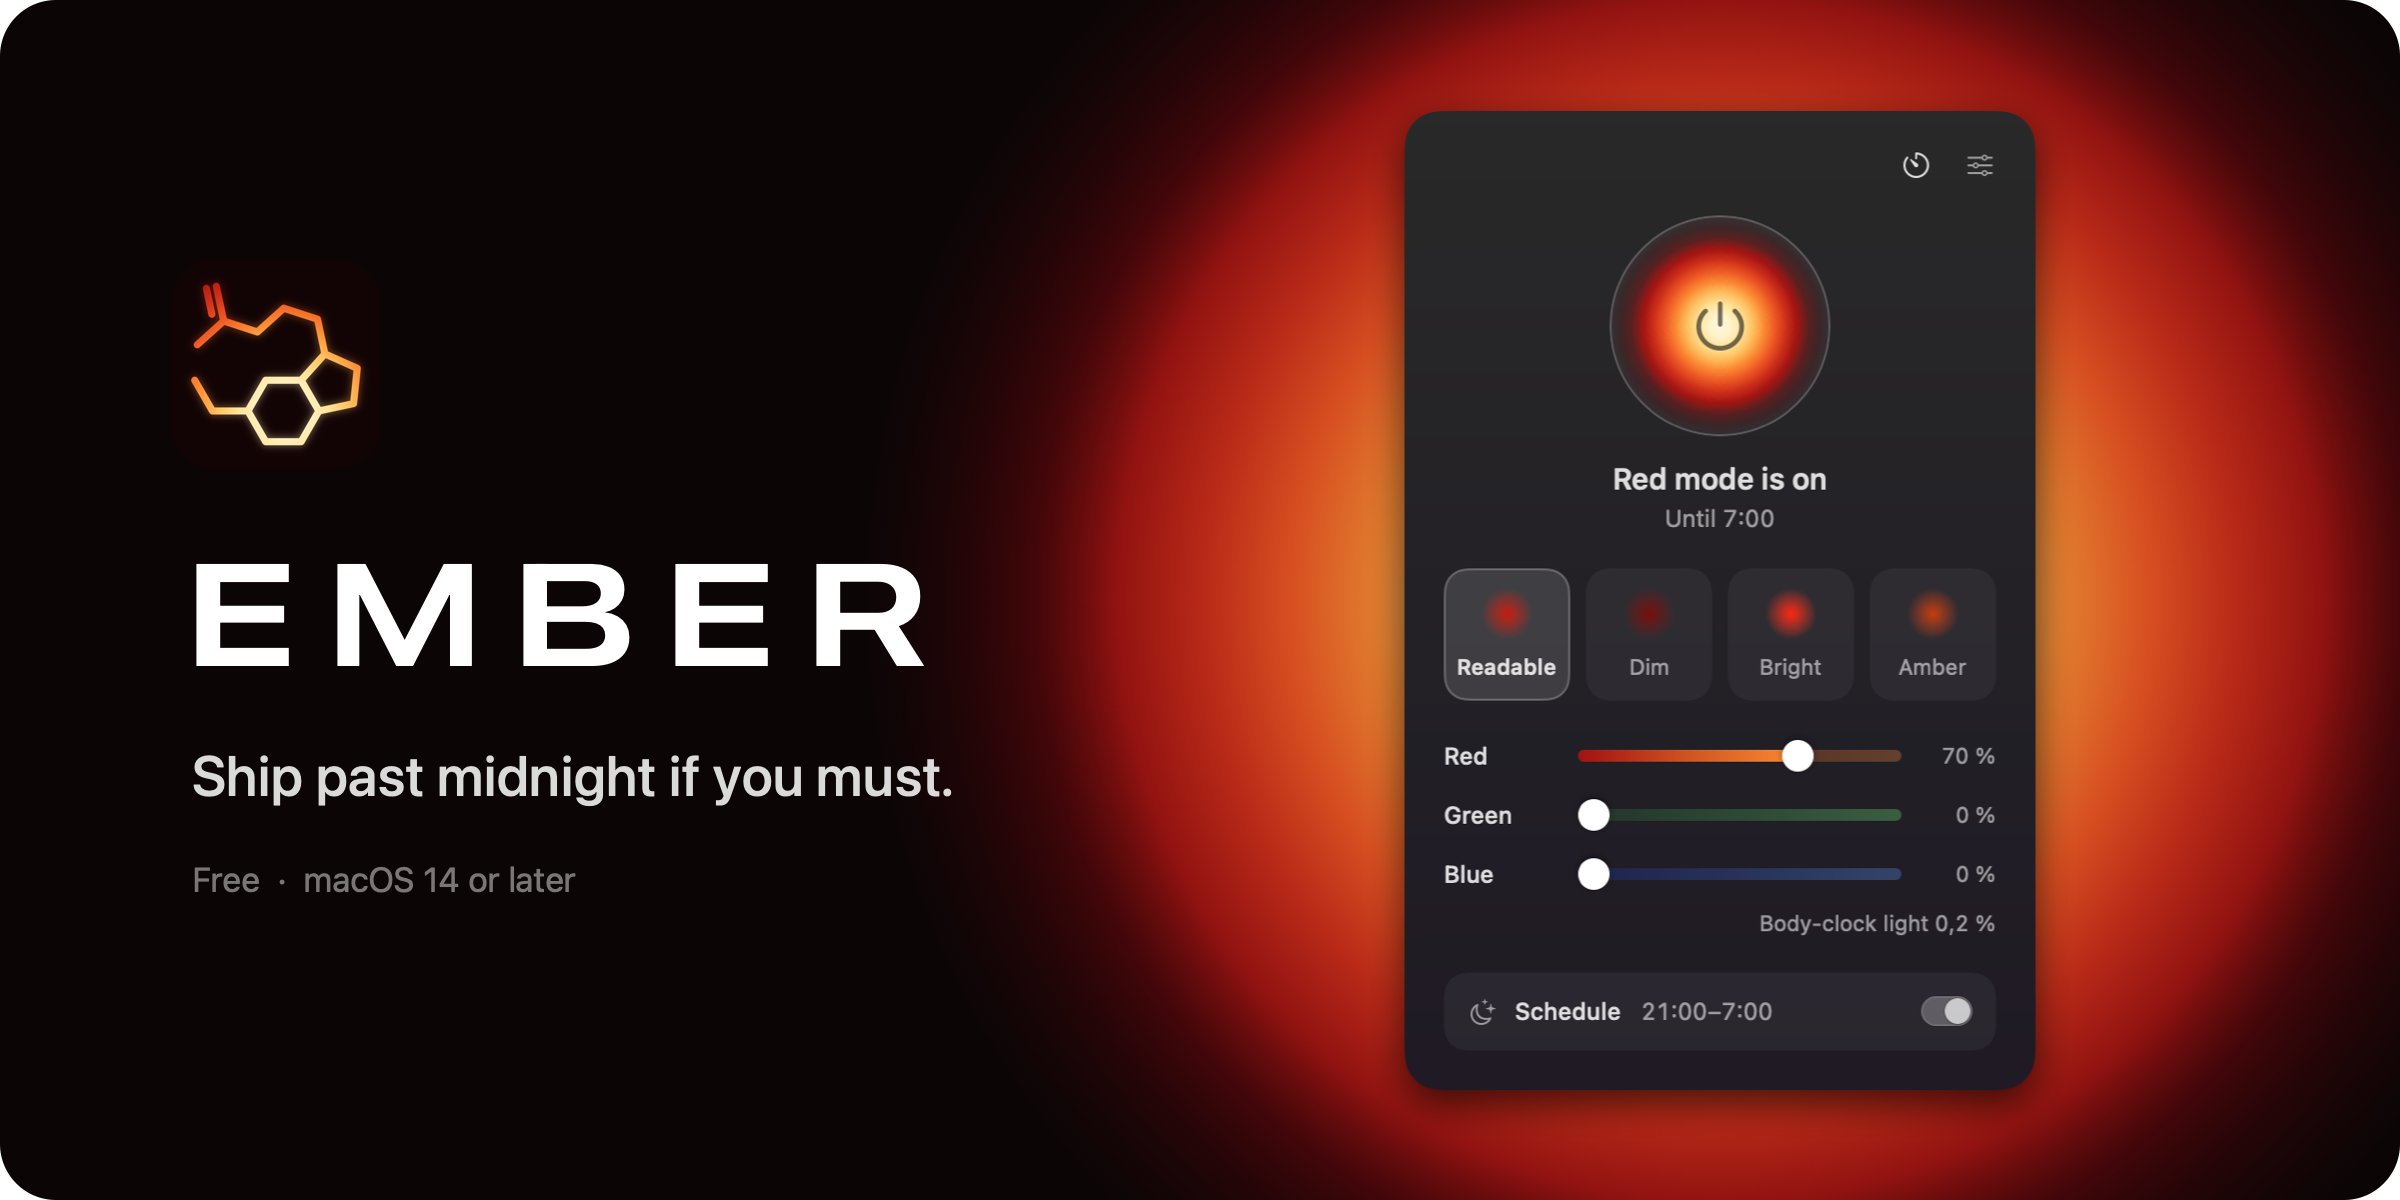
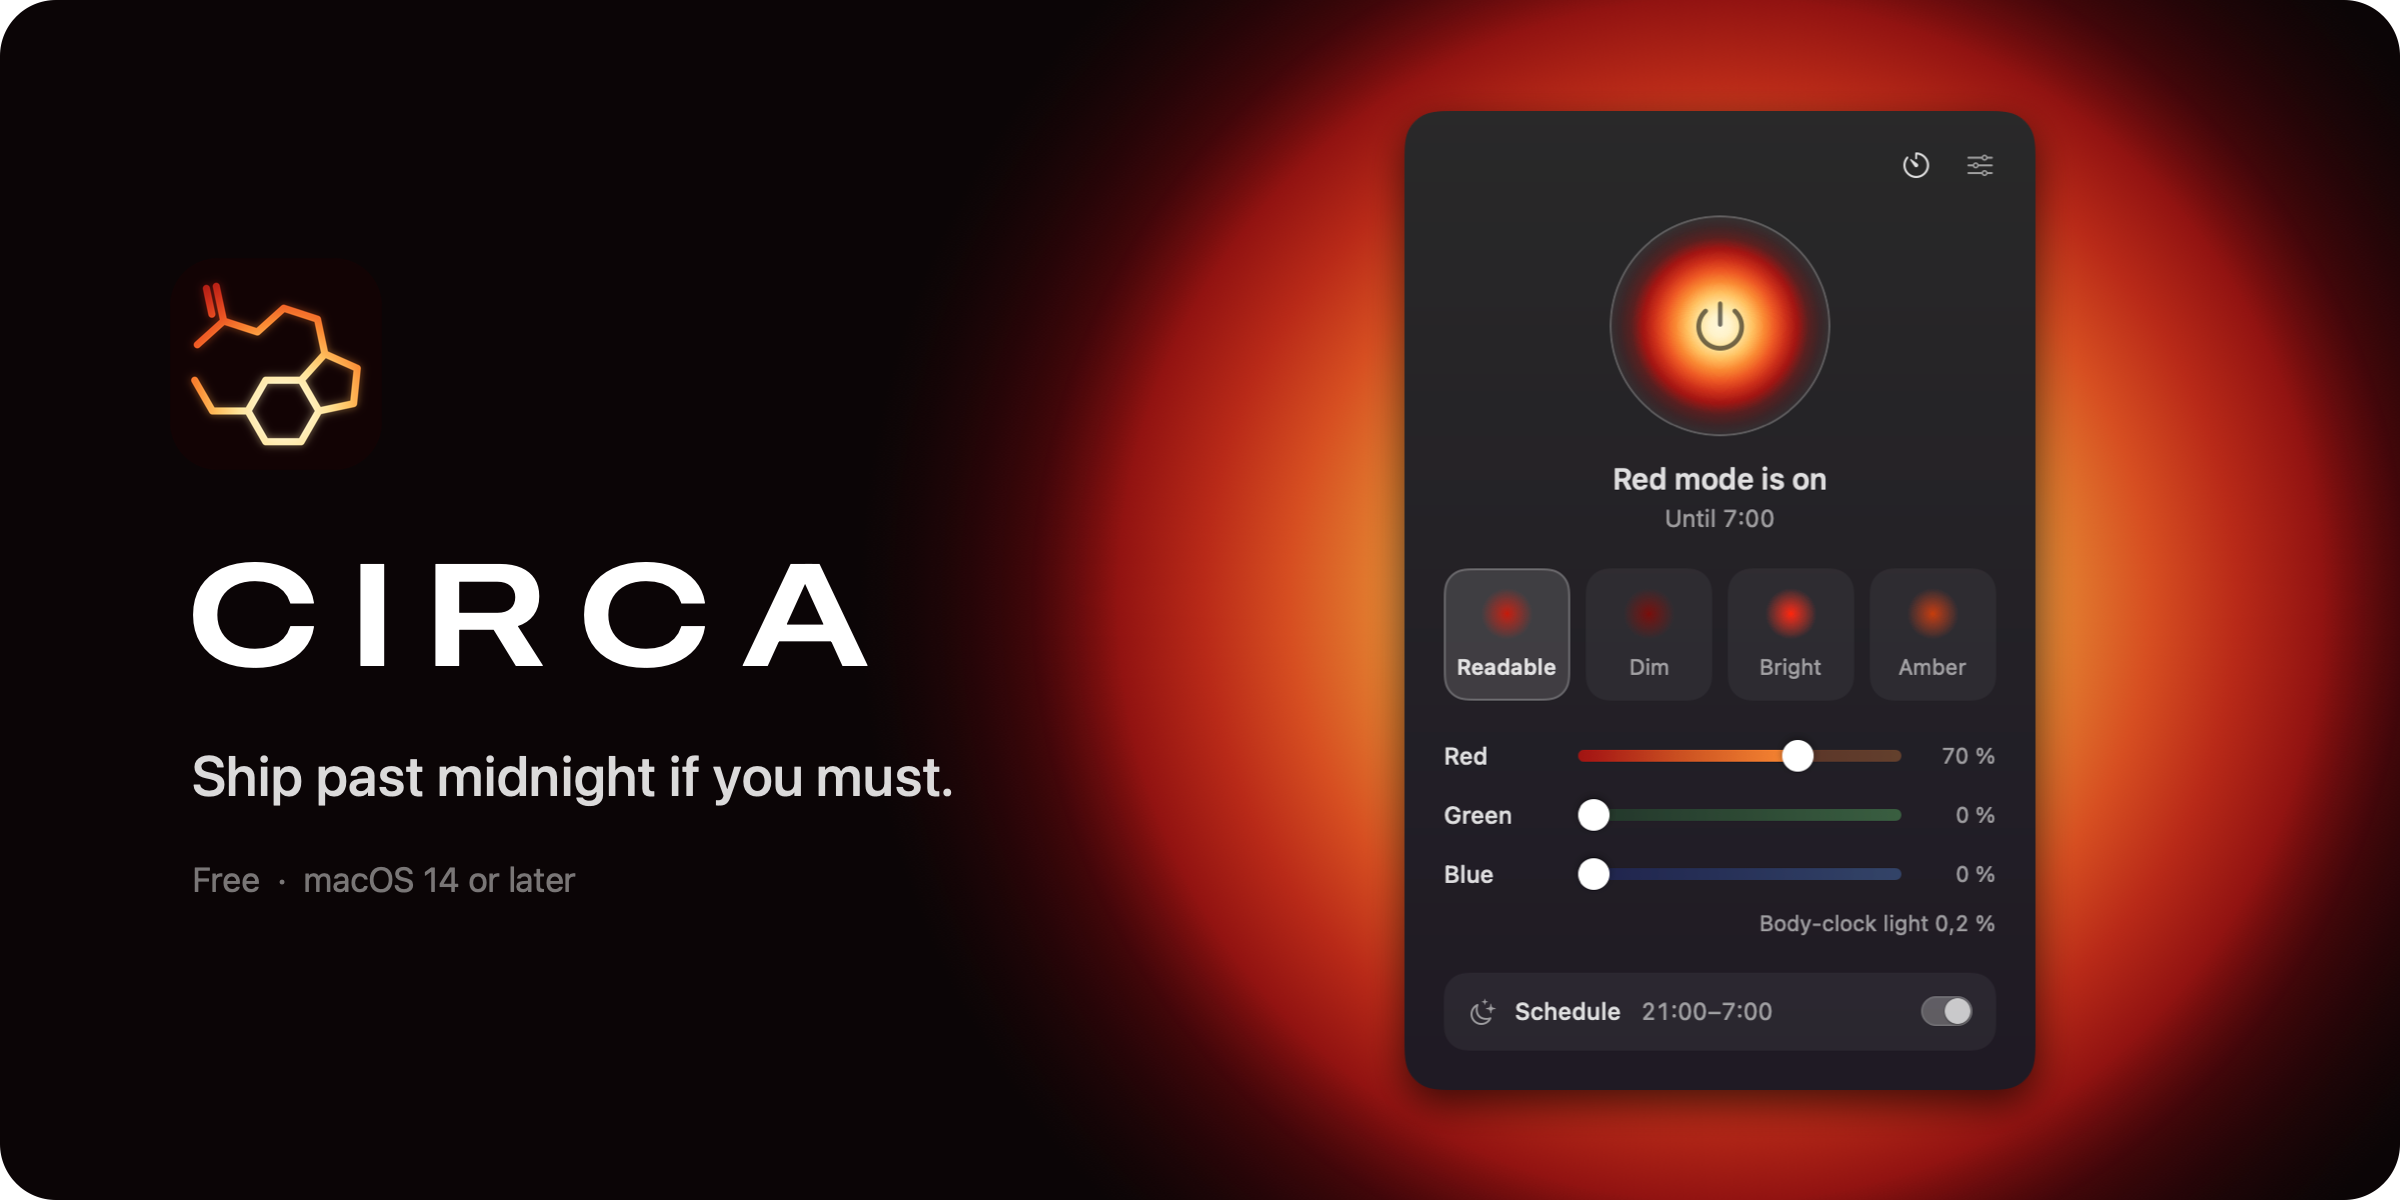
Circa 0.3.0

Changed region(s): [[0.0625, 0.4625, 0.4062, 0.555]]

diff --git a/README.md b/README.md
@@ -1,38 +1,38 @@
-<!-- This page is published from Ember's private repository by the release workflow. Edit it there, in public/README.md. -->
+<!-- This page is published from Circa's private repository by the release workflow. Edit it there, in public/README.md. -->
 <p align="center">
-  <img src="docs/cover.png" alt="Ember: ship past midnight if you must" width="100%">
+  <img src="docs/cover.png" alt="Circa: ship past midnight if you must" width="100%">
 </p>
 
 <p align="center">
-  <a href="https://github.com/michaelsamjatin/Ember/releases/latest/download/Ember.dmg"><strong>Download Ember for macOS</strong></a>
+  <a href="https://github.com/michaelsamjatin/Circa/releases/latest/download/Circa.dmg"><strong>Download Circa for macOS</strong></a>
   &nbsp;·&nbsp; macOS 14 or later &nbsp;·&nbsp; free
 </p>
 
-# Ember
+# Circa
 
 A menu bar app that turns your whole screen deep red at night. Not "warm" like Night Shift: green and blue are switched off completely, so the light your body clock reacts to drops close to zero.
 
 ## Install
 
-1. [Download Ember.dmg](https://github.com/michaelsamjatin/Ember/releases/latest/download/Ember.dmg), open it and drag Ember into Applications.
-2. Ember is not notarized yet. The first time, right-click Ember and choose Open, or allow it under System Settings → Privacy & Security → Open Anyway.
-3. Ember lives in the menu bar. If your menu bar is full, macOS hides its icon behind the notch; Ember then drops its panel down from under the notch, and opening Ember again always brings it back.
+1. [Download Circa.dmg](https://github.com/michaelsamjatin/Circa/releases/latest/download/Circa.dmg), open it and drag Circa into Applications.
+2. Circa is not notarized yet. The first time, right-click Circa and choose Open, or allow it under System Settings → Privacy & Security → Open Anyway.
+3. Circa lives in the menu bar. If your menu bar is full, macOS hides its icon behind the notch; Circa then drops its panel down from under the notch, and opening Circa again always brings it back.
 
 ## Use
 
-- Click the menu bar icon and press the glowing ember to switch red mode on. Option-click the icon toggles it without opening the panel, scrolling over the icon dims or brightens, and ⌃⌥⌘R toggles from anywhere.
+- Click the menu bar icon and press the glowing button to switch red mode on. Option-click the icon toggles it without opening the panel, scrolling over the icon dims or brightens, and ⌃⌥⌘R toggles from anywhere.
 - Pick a look (Readable, the default, keeps the full effect with clearer text and Dark Mode; Dim, Bright and Amber cover the rest) or drag the red, green and blue bars yourself. A live estimate shows how much of the light still reaches your body clock.
 - Turn on Schedule to have red mode come on by itself, at set times (21:00–07:00 by default) or from sunset to sunrise, easing in over 30 minutes, or use the timer for an hour or two. The sliders icon opens Adjust for the spectrum, clarity, schedule, fade, shortcut and launch at login.
 - Add apps under "Pause in these apps" and red mode lifts while one of them is in front, for photo and video work.
-- Automate it: add Ember as a Focus filter (System Settings → Focus → Sleep → Focus filters), use the Turn On, Turn Off and Toggle actions in Shortcuts, or open `ember://on`, `ember://on?minutes=30`, `ember://off` or `ember://toggle` from scripts.
+- Automate it: add Circa as a Focus filter (System Settings → Focus → Sleep → Focus filters), use the Turn On, Turn Off and Toggle actions in Shortcuts, or open `circa://on`, `circa://on?minutes=30`, `circa://off` or `circa://toggle` from scripts.
 - Under "While red mode is on", Flicker-free runs the backlight at full power and dims the picture instead, since backlights pulse most when dimmed, and Anti-dithering stops the graphics chip from flickering pixels between shades.
 
 ## Why red
 
-Your body clock reads light mainly through melanopsin, a pigment in the eye that is most sensitive to blue-cyan light and barely responds to deep red. Warm filters like Night Shift still leave lots of green, which melanopsin does respond to. Ember switches green and blue off completely and dims the red, so the light your clock reacts to drops close to zero. It is not a medical device, and room lighting matters too; see [docs/science.md](docs/science.md) for details and sources.
+Your body clock reads light mainly through melanopsin, a pigment in the eye that is most sensitive to blue-cyan light and barely responds to deep red. Warm filters like Night Shift still leave lots of green, which melanopsin does respond to. Circa switches green and blue off completely and dims the red, so the light your clock reacts to drops close to zero. It is not a medical device, and room lighting matters too; see [docs/science.md](docs/science.md) for details and sources.
 
 ## Feedback
 
-Found a bug or missing something? [Open an issue](https://github.com/michaelsamjatin/Ember/issues). What changed in each version is on the [releases page](https://github.com/michaelsamjatin/Ember/releases).
+Found a bug or missing something? [Open an issue](https://github.com/michaelsamjatin/Circa/issues). What changed in each version is on the [releases page](https://github.com/michaelsamjatin/Circa/releases).
 
-Ember is free to download and use.
+Circa is free to download and use.

diff --git a/docs/science.md b/docs/science.md
@@ -6,11 +6,11 @@ Your body clock does not mainly read light through the cones you see colour with
 
 ## Why "warm" filters are not enough
 
-Night Shift and similar filters lower the blue channel but keep a lot of green. Melanopsin's sensitivity extends well into the green, so a warm-looking screen can still deliver a meaningful melanopic dose. Ember sets the green and blue output curves to zero, so the display only emits its red primary, which on typical LCD and OLED panels sits above about 600 nm, where melanopsin responds weakly.
+Night Shift and similar filters lower the blue channel but keep a lot of green. Melanopsin's sensitivity extends well into the green, so a warm-looking screen can still deliver a meaningful melanopic dose. Circa sets the green and blue output curves to zero, so the display only emits its red primary, which on typical LCD and OLED panels sits above about 600 nm, where melanopsin responds weakly.
 
 ## Brightness matters too
 
-Dose depends on intensity as well as spectrum. Ember's intensity slider scales the red channel, so you can dim the screen at the same time. Use the lowest level that is comfortable to read.
+Dose depends on intensity as well as spectrum. Circa's intensity slider scales the red channel, so you can dim the screen at the same time. Use the lowest level that is comfortable to read.
 
 ## Full effect without the eye strain
 
@@ -22,11 +22,11 @@ Pure red at full brightness is hard to work with: white pages glare, and dark gr
 
 ## The spectrum controls and the body-clock estimate
 
-A screen makes every colour from three primaries: blue (about 460 nm), green (about 530 nm) and red (about 620 nm). Ember sets each one separately. The Amber preset lets some green back in for a warmer, more natural look; every other preset keeps green and blue off because melanopsin responds strongly to both.
+A screen makes every colour from three primaries: blue (about 460 nm), green (about 530 nm) and red (about 620 nm). Circa sets each one separately. The Amber preset lets some green back in for a warmer, more natural look; every other preset keeps green and blue off because melanopsin responds strongly to both.
 
 The "Body-clock light" figure is a rough estimate of the melanopic light of a white screen in the current style, compared with a normal white screen. For a typical sRGB display, each primary's share of melanopic light is its share of luminance (red 21 %, green 72 %, blue 7 %) times its melanopic-to-photopic ratio under CIE S 026, treating the primaries as narrowband. That gives blue about 66 %, green about 33 % and red about 0.5 %. Each primary's output is then scaled by its level raised to the display gamma of 2.2. Real panels have broader primaries, so treat the figure as an order of magnitude, not a measurement. Dark Mode and dark content lower the real figure further.
 
-## What Ember does not do
+## What Circa does not do
 
 - It is not a medical device and makes no clinical claim.
 - It only changes your screen. Room lighting usually contributes far more evening light than a laptop does. Dim lamps and avoid bright overhead light too.
